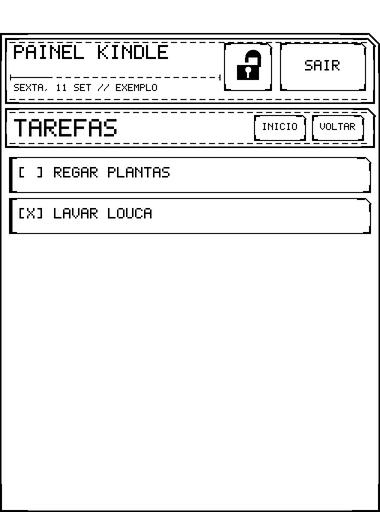
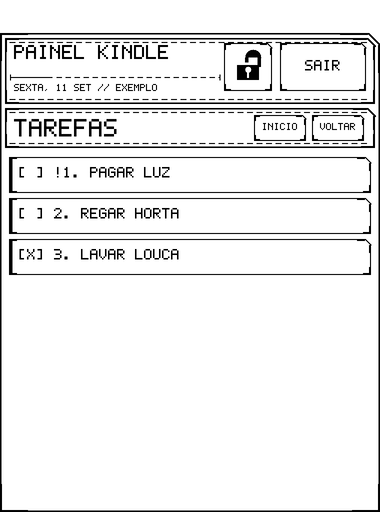
Mostra no Kindle os números e a marca de importante do bot
O kindle-dashboard-data agora ordena os itens como o /listas
(abertos primeiro, importantes no topo, mais antigos antes) e envia
number e important por item; o Kindle mostra "[ ] !1. PAGAR LUZ".
Os números são calculados antes de esconder concluídos antigos, então
batem sempre com os comandos "exclua o item 2". O hash do SSE passa a
incluir important.

diff --git a/functions/kindle-dashboard-data.ts b/functions/kindle-dashboard-data.ts
@@ -7,6 +7,7 @@ type PlannerItem = {
   list_key: ListKey;
   text: string;
   done: boolean;
+  important: boolean;
   created_at: string;
   updated_at: string;
 };
@@ -107,9 +108,9 @@ async function loadDashboardPayload(): Promise<DashboardPayload> {
   const [itemsResult, weather, agenda] = await Promise.all([
     admin.database
       .from("planner_items")
-      .select("id,list_key,text,done,created_at,updated_at")
+      .select("id,list_key,text,done,important,created_at,updated_at")
       .in("list_key", ["todo", "grocery", "notes"])
-      .order("created_at", { ascending: false }),
+      .order("created_at", { ascending: true }),
     fetchWeather(Deno.env.get("WEATHER_LAT"), Deno.env.get("WEATHER_LON")),
     fetchAgenda(
       Deno.env.get("CALDAV_BASE_URL"),
@@ -125,7 +126,7 @@ async function loadDashboardPayload(): Promise<DashboardPayload> {
   if (itemsError) throw itemsError;
 
   const staleCompletedCutoff = Date.now() - COMPLETED_ITEM_HIDE_AFTER_MS;
-  const plannerItems = (items as PlannerItem[]).filter((item) => shouldShowPlannerItem(item, staleCompletedCutoff));
+  const plannerItems = items as PlannerItem[];
 
   const payloadWithoutVersion = {
     ok: true as const,
@@ -148,13 +149,19 @@ async function loadDashboardPayload(): Promise<DashboardPayload> {
     lists: (["todo", "grocery", "notes"] as const).map((key) => ({
       key,
       title: LIST_TITLES[key],
-      items: plannerItems
-        .filter((item) => item.list_key === key)
-        .sort((a, b) => b.created_at.localeCompare(a.created_at))
-        .map((item) => ({
+      // Same order and numbers as /listas in telegram-webhook.ts, so "exclua o
+      // item 2 das compras" means the row the Kindle shows as "2.". Numbers are
+      // assigned over every row, like the bot does, before stale done rows are
+      // hidden, so hiding them never shifts anyone else's number.
+      items: orderForNumbering(plannerItems.filter((item) => item.list_key === key))
+        .map((item, index) => ({ item, number: index + 1 }))
+        .filter(({ item }) => shouldShowPlannerItem(item, staleCompletedCutoff))
+        .map(({ item, number }) => ({
           id: item.id,
+          number,
           text: asciiFoldUpper(item.text),
           done: item.done,
+          important: Boolean(item.important),
           updated_at: item.updated_at
         }))
     }))
@@ -749,6 +756,22 @@ function zonedIsoString(date: Date, timeZone: string): string {
 function asciiFoldUpper(text: string): string {
   const folded = text.normalize("NFKD").replace(/[\u0300-\u036f]/g, "");
   return folded.toUpperCase().replace(/[^A-Z0-9 /:\-_.,%[\]+|!#]/g, "?");
+}
+
+// Copy of orderForNumbering in telegram-webhook.ts (functions share no modules);
+// the two must stay identical or the Kindle's numbers stop matching the bot's.
+// Open before done, important first within each; the stable sort keeps the
+// created_at-ascending order of the query inside each group.
+function orderForNumbering<T extends { done?: boolean; important?: boolean }>(rows: T[]): T[] {
+  return [...rows].sort((a, b) => {
+    const aDone = Boolean(a.done);
+    const bDone = Boolean(b.done);
+    if (aDone !== bDone) return aDone ? 1 : -1;
+    const aImportant = Boolean(a.important);
+    const bImportant = Boolean(b.important);
+    if (aImportant !== bImportant) return aImportant ? -1 : 1;
+    return 0;
+  });
 }
 
 function shouldShowPlannerItem(item: PlannerItem, staleCompletedCutoff: number): boolean {

diff --git a/functions/kindle-dashboard-events.ts b/functions/kindle-dashboard-events.ts
@@ -9,6 +9,7 @@ type PlannerItem = {
   list_key: ListKey;
   text: string;
   done: boolean;
+  important: boolean;
   created_at: string;
   updated_at: string;
 };
@@ -121,7 +122,7 @@ async function loadDashboardData(): Promise<DashboardData> {
 
   const { data: items, error: itemsError } = await admin.database
     .from("planner_items")
-    .select("id,list_key,text,done,created_at,updated_at")
+    .select("id,list_key,text,done,important,created_at,updated_at")
     .in("list_key", ["todo", "grocery", "notes"])
     .order("created_at", { ascending: false });
   if (itemsError) throw itemsError;

diff --git a/functions/telegram-webhook.ts b/functions/telegram-webhook.ts
@@ -513,6 +513,8 @@ async function buildListsOverview(admin: any): Promise<string> {
   return blocks.join("\n\n");
 }
 
+// Mirrored in kindle-dashboard-data.ts so the Kindle shows the same numbers;
+// change both together.
 // Open-and-important first, then open, then done-and-important, then done —
 // numbers below are assigned over this exact order so "conclua a tarefa 3"
 // always resolves to the row a user just read as "3." in /listas. Relies on

diff --git a/kindle/native/src/kindle_dashboard.cpp b/kindle/native/src/kindle_dashboard.cpp
@@ -96,6 +96,10 @@ struct Item {
   char id[48];
   char text[96];
   int done;
+  int important;
+  // Position as numbered by the backend (same as /listas in the bot); 0 when an older
+  // backend did not send one.
+  int number;
 };
 
 struct List {
@@ -365,6 +369,21 @@ const char* matchingClose(const char* open, char close_char) {
   return NULL;
 }
 
+void upperCopy(char* dest, size_t size, const char* source);
+
+// "[ ] 3. LEITE" / "[X] !1. PAO" - the same "!N." the bot prints in /listas, so a
+// user can read a number off the Kindle and say "exclua o item 3 das compras".
+void formatItemRow(const Item* item, char* out, size_t size, int max_text) {
+  char item_text[96];
+  upperCopy(item_text, sizeof(item_text), item->text);
+  const char* box = item->done ? "[X]" : "[ ]";
+  if (item->number > 0) {
+    snprintf(out, size, "%s %s%d. %.*s", box, item->important ? "!" : "", item->number, max_text, item_text);
+  } else {
+    snprintf(out, size, "%s %s%.*s", box, item->important ? "!" : "", max_text, item_text);
+  }
+}
+
 int parseItems(const char* list_start, const char* list_end, List* list) {
   const char* items_value = findKeyInRange(list_start, list_end, "items");
   if (!items_value || *items_value != '[') return 0;
@@ -382,6 +401,8 @@ int parseItems(const char* list_start, const char* list_end, List* list) {
     extractString(object_start, object_end, "id", item->id, sizeof(item->id), "");
     extractString(object_start, object_end, "text", item->text, sizeof(item->text), "");
     item->done = extractBool(object_start, object_end, "done", 0);
+    item->important = extractBool(object_start, object_end, "important", 0);
+    item->number = extractInt(object_start, object_end, "number", 0);
     if (item->text[0]) list->item_count++;
     cursor = object_end + 1;
   }
@@ -645,7 +666,9 @@ void addList(char lines[][96], int* count, const List* list) {
   const int shown = list->item_count > 4 ? 4 : list->item_count;
   for (int i = 0; i < shown; i++) {
     char line[96];
-    snprintf(line, sizeof(line), " %s %.30s", list->items[i].done ? "[x]" : "[ ]", list->items[i].text);
+    char row[64];
+    formatItemRow(&list->items[i], row, sizeof(row), 30);
+    snprintf(line, sizeof(line), " %s", row);
     addCardText(lines, count, line);
   }
   if (list->item_count > shown) {
@@ -1330,9 +1353,7 @@ void drawListCard(Canvas* canvas, int x, int y, int w, int h, const List* list, 
     hudRail(canvas, x + 10, x + w - 10, y + 52, 0);
     if (list->item_count > 0) {
       char row[128];
-      char item_text[96];
-      upperCopy(item_text, sizeof(item_text), list->items[0].text);
-      snprintf(row, sizeof(row), "%s %.52s", list->items[0].done ? "[X]" : "[ ]", item_text);
+      formatItemRow(&list->items[0], row, sizeof(row), 52);
       drawTextClipped(canvas, x + 18, y + 66, w - 36, row, 2, 0);
     } else {
       drawTextCentered(canvas, x + w / 2, y + 66, w - 36, "LISTA VAZIA", 2, 0);
@@ -1351,9 +1372,7 @@ void drawListCard(Canvas* canvas, int x, int y, int w, int h, const List* list, 
   const int shown = list->item_count > row_capacity ? row_capacity : list->item_count;
   for (int i = 0; i < shown; i++) {
     char row[128];
-    char item_text[96];
-    upperCopy(item_text, sizeof(item_text), list->items[i].text);
-    snprintf(row, sizeof(row), "%s %.52s", list->items[i].done ? "[X]" : "[ ]", item_text);
+    formatItemRow(&list->items[i], row, sizeof(row), 52);
     drawTextClipped(canvas, x + 18, y + 74 + i * 42, w - 36, row, 3, 0);
   }
   if (list->item_count > shown && h >= 190) {
@@ -1441,9 +1460,7 @@ void drawFullListDashboard(Canvas* canvas, const Dashboard* dashboard, int list_
     fillRect(canvas, row_rect.x, row_rect.y, 7, row_rect.h, 0);
     addTouchRegion(row_rect, kTouchToggleItem, list_index, i, list->items[i].id, list->items[i].done);
     char row[160];
-    char item_text[96];
-    upperCopy(item_text, sizeof(item_text), list->items[i].text);
-    snprintf(row, sizeof(row), "%s %.46s", list->items[i].done ? "[X]" : "[ ]", item_text);
+    formatItemRow(&list->items[i], row, sizeof(row), 46);
     drawTextClipped(canvas, row_x + 18, row_y + 20, row_w - 36, row, 3, 0);
   }
 }

diff --git a/docs/ARQUITETURA.md b/docs/ARQUITETURA.md
@@ -444,19 +444,33 @@ Exemplo de resposta:
     ]
   },
   "lists": [
-    { "key": "todo",    "title": "Tarefas", "items": [{ "id": "item-1", "text": "LIMPAR A MESA", "done": false }] },
-    { "key": "grocery", "title": "Compras", "items": [{ "id": "item-2", "text": "LEITE", "done": false }] },
-    { "key": "notes",   "title": "Notas",   "items": [{ "id": "item-3", "text": "SENHA DO WIFI NO ROTEADOR", "done": false }] }
+    { "key": "todo",    "title": "Tarefas", "items": [
+      { "id": "item-4", "number": 1, "text": "PAGAR LUZ", "done": false, "important": true },
+      { "id": "item-1", "number": 2, "text": "LIMPAR A MESA", "done": false, "important": false }
+    ] },
+    { "key": "grocery", "title": "Compras", "items": [{ "id": "item-2", "number": 1, "text": "LEITE", "done": false, "important": false }] },
+    { "key": "notes",   "title": "Notas",   "items": [{ "id": "item-3", "number": 1, "text": "SENHA DO WIFI NO ROTEADOR", "done": false, "important": false }] }
   ],
   "version": "a13f9c"
 }
 ```
 
-Dois detalhes do contrato de que o programa do Kindle depende:
+Três detalhes do contrato de que o programa do Kindle depende:
 
 - **Ordem das listas:** `lists` sai sempre na ordem fixa `todo`, `grocery`,
   `notes`. O programa associa a posição na lista direto a uma caixa na tela,
   então o backend não pode reordenar.
+- **Ordem e números dos itens:** dentro de cada lista, os itens saem na mesma
+  ordem e com os mesmos números (`number`) que o `/listas` do bot usa:
+  - abertos antes de concluídos;
+  - importantes primeiro dentro de cada grupo;
+  - mais antigos primeiro dentro disso.
+
+  A função `orderForNumbering` existe em cópias idênticas no
+  `kindle-dashboard-data.ts` e no `telegram-webhook.ts`. Os números são
+  calculados sobre todas as linhas antes de esconder os itens concluídos há
+  mais de 24 h, então esconder um item nunca muda o número de outro. O
+  programa só imprime o `number` que recebe (`[ ] !1. PAGAR LUZ`).
 - **Horários dos eventos:** eventos com horário são convertidos para o
   horário local do painel com o deslocamento explícito (`-03:00` acima), e
   não em UTC com `Z`. O programa não tem tabelas de fuso e imprime os dígitos

diff --git a/CLAUDE.md b/CLAUDE.md
@@ -221,6 +221,15 @@ Estes são os que quebram em silêncio se você esquecer:
     de lista hoje"; o `updated_at` não serve para isso.
   - Vale para o `kindle-dashboard-toggle.ts` e para os caminhos de concluir e
     reabrir do webhook.
+- **Os números dos itens no Kindle precisam bater com os do `/listas`.**
+  - O `orderForNumbering` está duplicado, idêntico, em
+    `kindle-dashboard-data.ts` e `telegram-webhook.ts`, e os dois consultam
+    ordenando por `created_at` crescente.
+  - O `kindle-dashboard-data.ts` numera todas as linhas **antes** de esconder
+    as concluídas antigas (`shouldShowPlannerItem`) e envia `number` e
+    `important` por item.
+  - Mudar a ordem num lado sem mudar no outro faz "exclua o item 2" apagar a
+    linha errada.
 - **Horários saem com deslocamento explícito, nunca com `Z`.** O programa não
   tem tabelas de fuso e imprime os dígitos como vieram. Eventos de dia inteiro
   ficam só com a data.

diff --git a/docs/INSTALACAO.md b/docs/INSTALACAO.md
@@ -319,6 +319,28 @@ Listas aceitas (os apelidos valem em português e inglês, com ou sem acento):
 As três aparecem na tela do Kindle, cada uma na sua caixa, e as três podem ser
 tocadas para abrir em tela cheia.
 
+Os itens aparecem **numerados**, com os mesmos números do `/listas`, e os
+**importantes** vêm primeiro, marcados com `!`:
+
+```text
+[ ] !1. PAGAR LUZ
+[ ] 2. REGAR HORTA
+[X] 3. LAVAR LOUCA
+```
+
+Use esses números nos comandos:
+
+```text
+exclua o item 2 da lista de tarefas
+conclua a tarefa 1
+mude o texto do item 2 das compras para leite integral
+marca a tarefa 2 como importante
+tira a importância da tarefa 1
+```
+
+Nas caixas pequenas da tela principal, textos longos aparecem cortados; abra a
+lista (toque na caixa) para ver o texto inteiro.
+
 Adicionar itens:
 
 ```text

diff --git a/README.md b/README.md
@@ -26,6 +26,10 @@ imagem que quiser.</sub>
   recorrentes.
 - **Três listas**: tarefas, compras e notas. Toque numa caixa para abrir a
   lista em tela cheia e toque num item para marcar como feito.
+  - Os itens são **numerados**, com os mesmos números do bot: leia na tela e
+    mande "exclua o item 2 das compras".
+  - Itens **importantes** (`marca a tarefa 3 como importante`) sobem para o
+    topo da lista e aparecem com `!`.
 - **Um bot do Telegram** que edita tudo isso:
   - menu de botões que sempre funciona;
   - texto livre e áudio, se você adicionar uma chave de IA (opcional, com

diff --git a/docs/BOT.md b/docs/BOT.md
@@ -232,6 +232,11 @@ ordem é:
 
 (A regra está em `orderForNumbering`, no `telegram-webhook.ts`.)
 
+**O Kindle mostra os mesmos números e a mesma ordem** (`[ ] !1. PAGAR LUZ`),
+então dá para ler o número direto na tela e mandar "exclua o item 2 das
+compras". Itens concluídos há mais de 24 h somem do Kindle, mas os números dos
+outros não mudam por isso.
+
 Use o número em vez de digitar o texto de novo: `conclua a tarefa 3`,
 `exclua o item 2 da lista de compras`, `cancela o evento 1`. Um número sempre
 aponta para exatamente um item, então, ao contrário de um trecho de texto,
